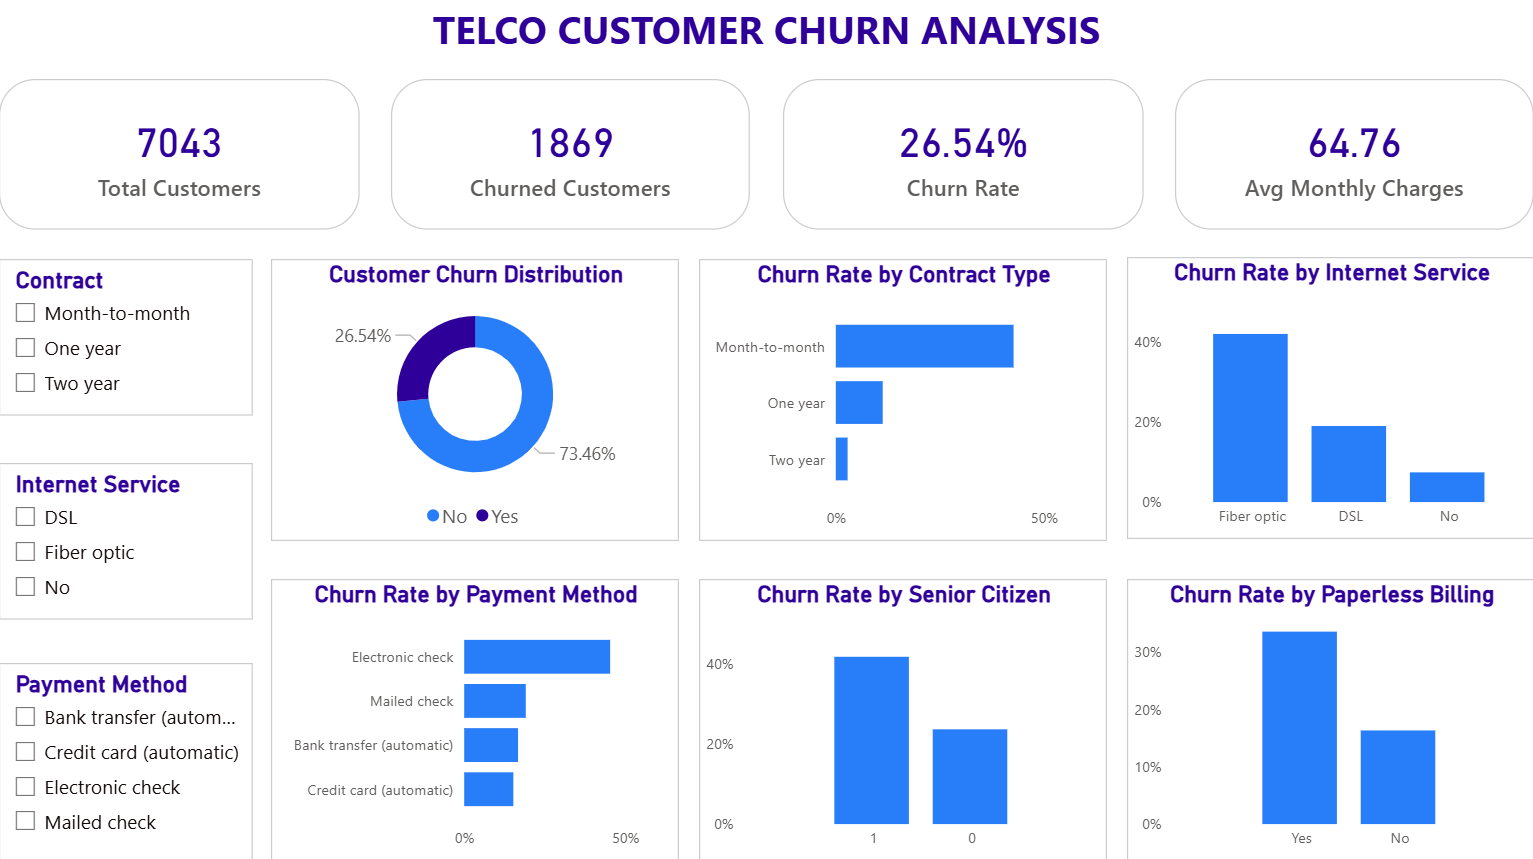
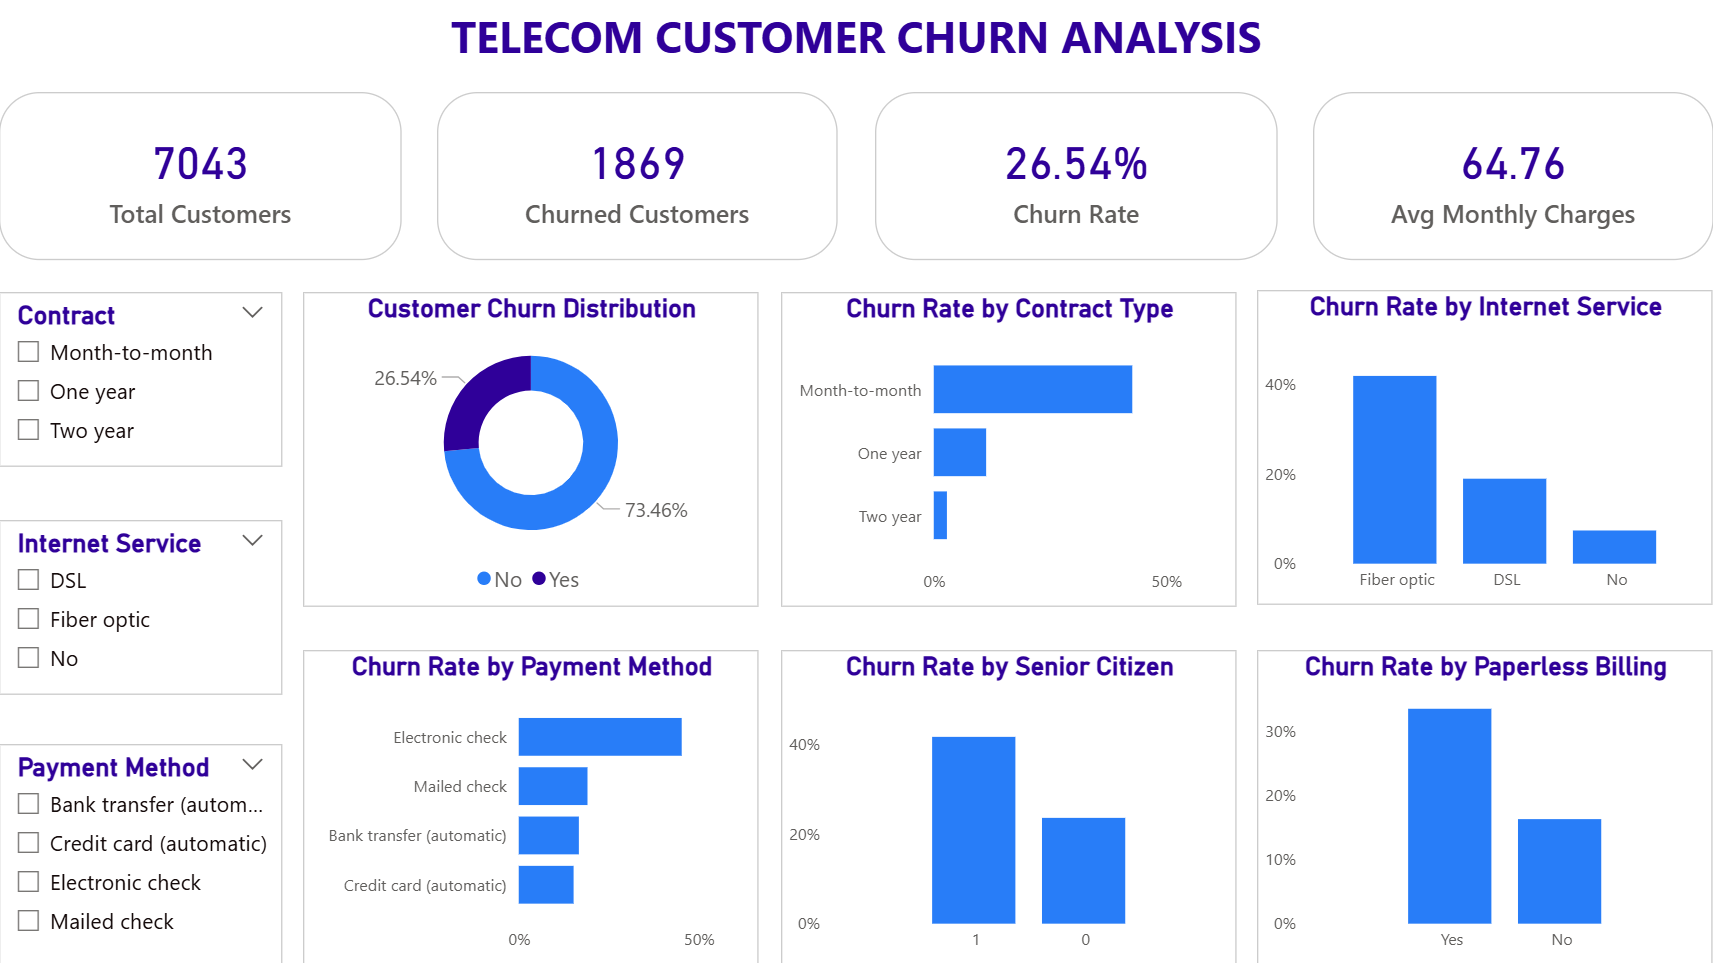
Update project documentation

diff --git a/Data_Dictionary.md b/Data_Dictionary.md
@@ -1,4 +1,4 @@
-# Data Dictionary – Telco Customer Churn
+# Data Dictionary – Telecom Customer Churn
 
 This document describes the 21 columns in the customer churn dataset.
 

diff --git a/Business_Insights.md b/Business_Insights.md
@@ -1,6 +1,6 @@
 
 
-# Business Insights – Telco Customer Churn Analysis
+# Business Insights – Telecom Customer Churn Analysis
 
 ## 1. Business Objective
 

diff --git a/README.md b/README.md
@@ -1,5 +1,5 @@
 # **Project Type:** Personal Project
-# Telco Customer Churn Analysis
+# Telecom Customer Churn Analysis
 
 ## Project Overview
 

diff --git a/Cleaning_Log.md b/Cleaning_Log.md
@@ -1,4 +1,4 @@
-# Data Cleaning Log – Telco Customer Churn
+# Data Cleaning Log – Telecom Customer Churn
 
 ## Dataset Overview
 
